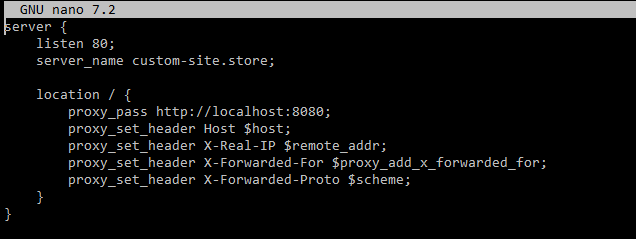
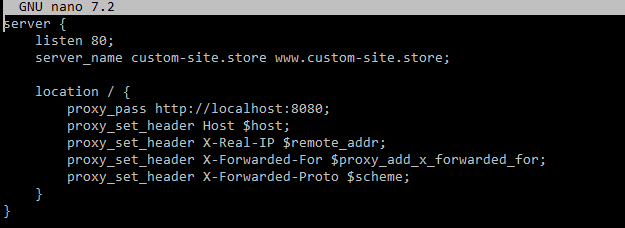
가비아 도메인 등록 개선

diff --git a/가비아 도메인 구매 관련.md b/가비아 도메인 구매 관련.md
@@ -18,14 +18,22 @@ ns4.xxxxx.dns.oraclecloud.net
 
 A타입 (ipv4)
 
+호스트: (빈값 = @)
+
 호스트: www
 
 값: 퍼블릭 IP
+
+![alt text](./img/img003.png)
 
 #### 4. 가비아 레코드 등록 (가비아 DNS 관리툴 탭)
 
 A타입 (ipv4)
 
+호스트: @
+
 호스트: www
 
 값: 퍼블릭 IP
+
+![alt text](./img/img004.png)

diff --git a/엔진엑스 포트포워딩.md b/엔진엑스 포트포워딩.md
@@ -32,7 +32,7 @@ sudo nano /etc/nginx/sites-available/default
 ```bash
 server {
     listen 80;
-    server_name custom-site.store;
+    server_name custom-site.store www.custom-site.store;
 
     location / {
         proxy_pass http://localhost:8080;
